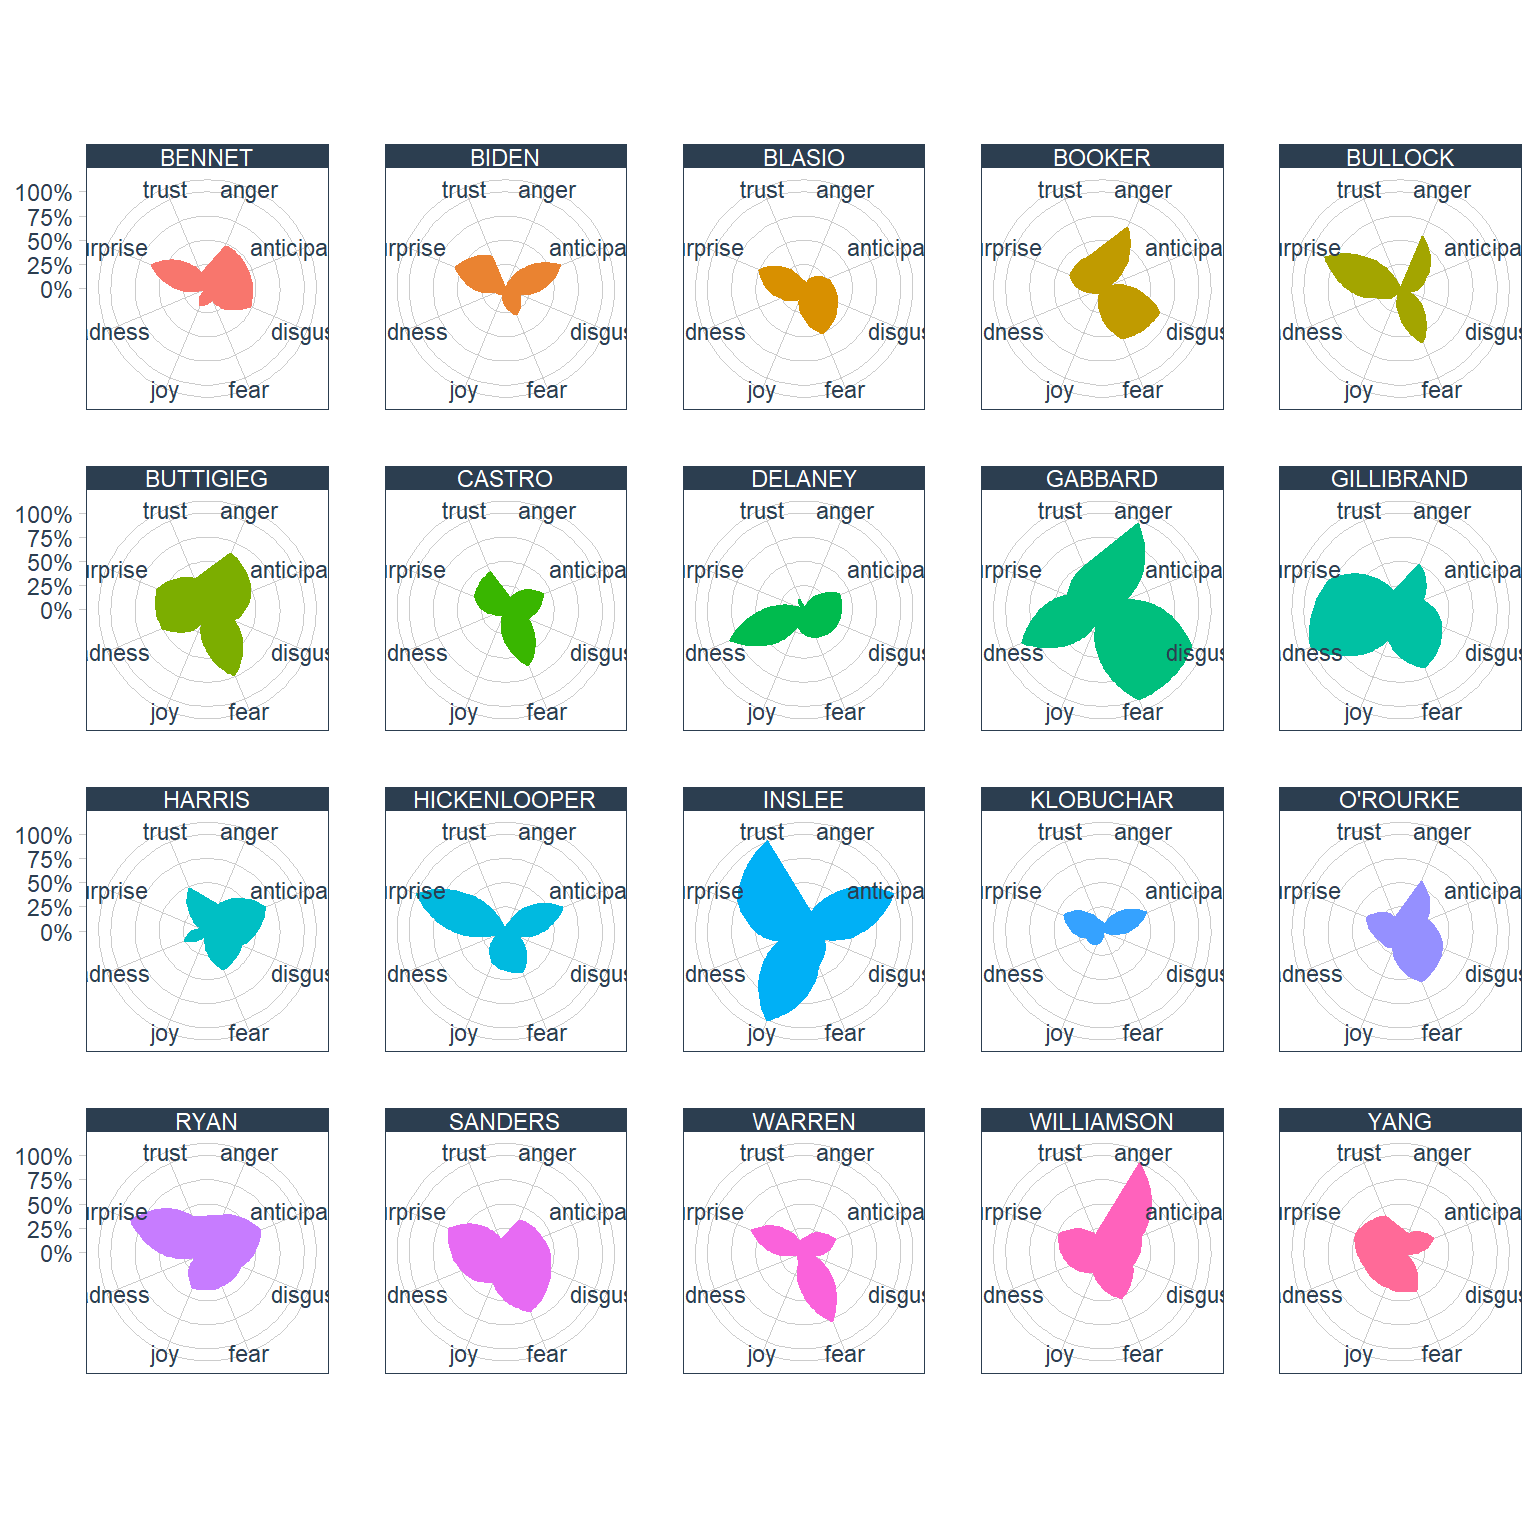
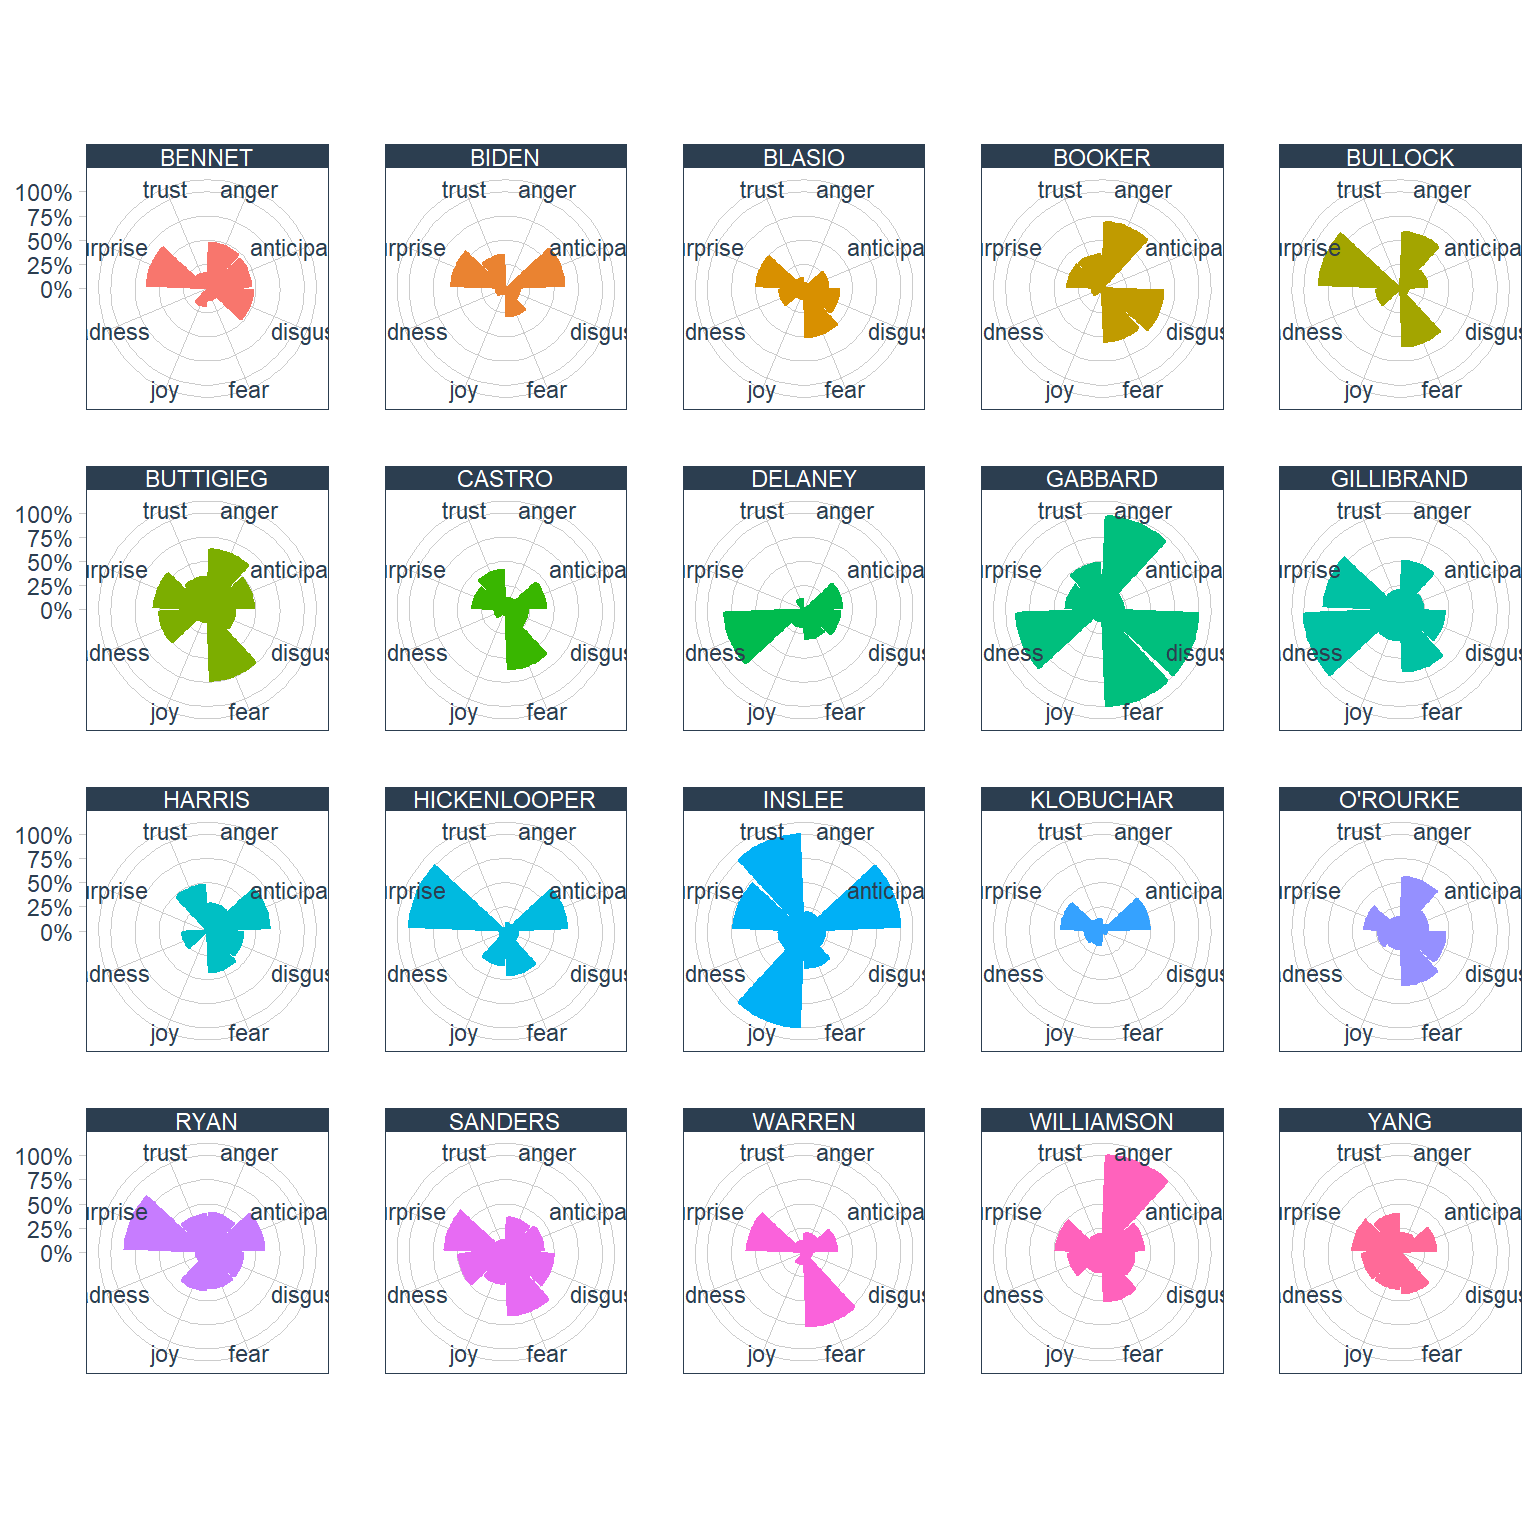
Update tags and radar chart

diff --git a/content/post/2019-07-25-sec-media-days-2019.html b/content/post/2019-07-25-sec-media-days-2019.html
@@ -12,6 +12,19 @@ slug: sec-media-days-2019
 
 
 
+<p>```{r setup, include=FALSE}title: SEC Media Days 2019
+author: Scott Frechette
+date: ‘2019-07-25’
+categories:
+- sports
+tags:
+- R
+- football
+- text
+slug: sec-media-days-2019</p>
+<p>knitr::opts_chunk$set(echo = TRUE, message=FALSE, warning=FALSE)
+options(width = 100, dplyr.width = 100)
+```</p>
 <p>I wanted to start a blog to document my NLP journey, and as a resident of Alabama I could think of no better place to start than analyzing SEC Media Days. Every year the highest paid public officials in the Southeast meet to discuss the most important topics plaguing their respective areas and forecasting how successful they will be this year with educating and developing the youth.</p>
 <p>Actually it’s just coaches engaging in coachspeak.</p>
 <p>Because publicly posting my education feels a bit daunting I thought I’d start slow. With this post I’m trying out Julia Silge and Tyler Schnoebelen’s new <a href="https://github.com/juliasilge/tidylo">tidylo</a> package, which she described <a href="https://juliasilge.com/blog/introducing-tidylo/">here</a>. Instead of relying on the old standard TF-IDF it uses log-odds weighted by an uninformative Dirichlet prior. If those words sounded even remotely interesting you should check out the <a href="https://www.cambridge.org/core/journals/political-analysis/article/fightin-words-lexical-feature-selection-and-evaluation-for-identifying-the-content-of-political-conflict/81B3703230D21620B81EB6E2266C7A66">original paper</a>.</p>
@@ -57,18 +70,18 @@ transcripts &lt;- map_df(speaker_ids, get_transcript)
 
 transcripts</code></pre>
 <pre><code>## # A tibble: 1,031 x 2
-##    speaker    text                                                                                  
-##    &lt;chr&gt;      &lt;chr&gt;                                                                                 
-##  1 STEVE SHAW We&#39;re going to do two things today.  I know we still have people coming in, but we&#39;re~
-##  2 STEVE SHAW And then the second part of this is going to be interactive.  Hopefully you have -- i~
-##  3 STEVE SHAW So, this document, and I&#39;m going to put it up here, it&#39;s also on the board, was reall~
-##  4 STEVE SHAW Now, unfortunately not all of the activities are captured here, but the majority of t~
-##  5 STEVE SHAW So, the first question we&#39;re going to hit today is, do you evaluate these guys?  Is t~
-##  6 STEVE SHAW So every play in every game, just like the players, every play in every game is grade~
-##  7 STEVE SHAW You can have a missed call.  It&#39;s still negative, but an incorrect -- when you put yo~
-##  8 STEVE SHAW Many times there&#39;s plays with comment only to give feedback to the officials, so they~
-##  9 STEVE SHAW The grading then goes that position specialist to validate it for that specific posit~
-## 10 STEVE SHAW So that&#39;s the accountability on a weekly basis, but then if you flip the document to ~
+##    speaker    text                                                         
+##    &lt;chr&gt;      &lt;chr&gt;                                                        
+##  1 STEVE SHAW We&#39;re going to do two things today.  I know we still have pe~
+##  2 STEVE SHAW And then the second part of this is going to be interactive.~
+##  3 STEVE SHAW So, this document, and I&#39;m going to put it up here, it&#39;s als~
+##  4 STEVE SHAW Now, unfortunately not all of the activities are captured he~
+##  5 STEVE SHAW So, the first question we&#39;re going to hit today is, do you e~
+##  6 STEVE SHAW So every play in every game, just like the players, every pl~
+##  7 STEVE SHAW You can have a missed call.  It&#39;s still negative, but an inc~
+##  8 STEVE SHAW Many times there&#39;s plays with comment only to give feedback ~
+##  9 STEVE SHAW The grading then goes that position specialist to validate i~
+## 10 STEVE SHAW So that&#39;s the accountability on a weekly basis, but then if ~
 ## # ... with 1,021 more rows</code></pre>
 </div>
 <div id="tokens" class="section level2">

diff --git a/content/post/2019-08-01-presidential-debates.html b/content/post/2019-08-01-presidential-debates.html
@@ -2,13 +2,14 @@
 title: First Two Democratic Debates
 author: Scott Frechette
 date: '2019-08-01'
-slug: presidential-debates
 categories:
-  - R
+  - politics
 tags:
+  - R
   - politics
   - debates
   - text
+slug: presidential-debates
 ---
 
 
@@ -321,7 +322,7 @@ debates_unigrams_afinn %&gt;%
   mutate_at(vars(-speaker), rescale) %&gt;% 
   gather(sentiment, score, -speaker) %&gt;% 
   ggplot(aes(sentiment, score, group = 1, color = speaker)) + 
-  geom_polygon(aes(fill = speaker)) + 
+  geom_col(aes(fill = speaker)) + 
   coord_polar() + 
   facet_wrap(~ speaker) + 
   guides(color = FALSE, fill = FALSE) + 
